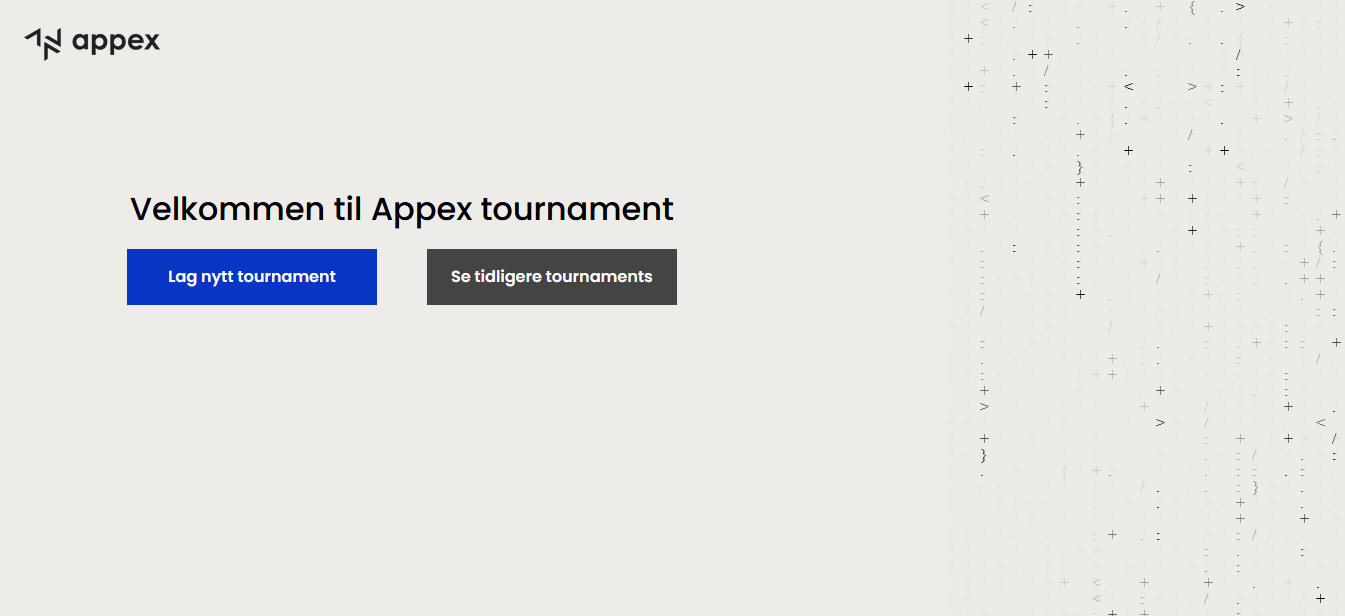
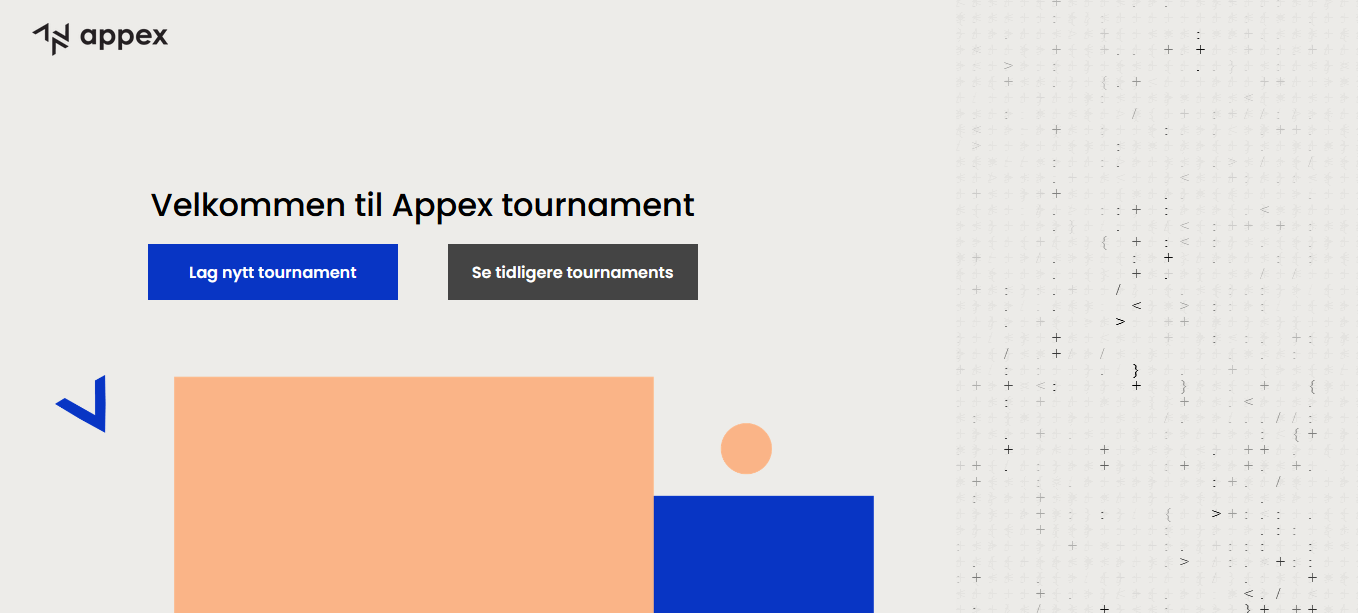
e

diff --git a/frontend/pages/newtournament.vue b/frontend/pages/newtournament.vue
@@ -4,15 +4,14 @@
       <div class="pg2-content-container">
         <div class="inputBox">
           <h1>Skriv inn navnet på tournamentet</h1>
-          <input v-model="tournamentName" type="text" id="tname" name="tname" placeholder="Tournament navn" maxlength = "69">
+          <input v-model="tournament.name" type="text" id="tname" name="tname" placeholder="Tournament navn" maxlength = "69">
           <span class="limiter">{{ 69 - tournamentName.length }} characters remaining</span>
         </div>
         <div class="inputBox">
           <h1>Tournament dato</h1>
-          <input type="date" id="tdate" name="tdate" placeholder="Dato">
+          <input v-model="tournament.date" type="date" id="tdate" name="tdate" placeholder="Dato">
         </div>
         <div class="pagebtn">
-          <button class="past" @click="getTournament()"><img src="https://icons-for-free.com/iconfiles/png/512/arrow+left+chevron+chevronleft+left+left+icon+icon-1320185731545502691.png" width="50px"></button>
           <button class="next" @click="increasePage()"><img src="https://icons-for-free.com/iconfiles/png/512/arrow+right+chevron+chevronright+right+right+icon+icon-1320185732203239715.png" width="50px"/></button>
         </div>
       </div>
@@ -62,7 +61,10 @@ export default {
    data() {
       return {
         page: 0,
-        tournamentName: '',
+        tournament: {
+          name: '',
+          date: ''
+        },
         players: [],
         matches: []
       }
@@ -73,7 +75,8 @@ export default {
           method: 'post',
           url: 'http://localhost:3001/newtournament',
           data: {
-            tournamentname: this.tournamentName,
+            tournamentname: this.tournament.name,
+            tournamentdate: this.tournament.date,
             players: this.players
           }
         }).then(async (response) => {

diff --git a/backend/routes/newtournament.js b/backend/routes/newtournament.js
@@ -1,0 +1,32 @@
+const MongoClient = require('mongodb').MongoClient;
+require('dotenv').config();
+module.exports = () => {
+    const body = req.body;
+    const defaultRounds = [256, 128, 64, 32, 16, 8, 4, 2];
+    const matches = [];
+    let rounds = defaultRounds.filter(p => p <= req.body.players.length)
+    for (let i = 0; i < rounds[0] / 2; i++) {
+      matches.push([])
+      for (let z = 0; z < rounds[i] / 2; z++) {
+        matches[i].push([])
+      }
+    }
+    MongoClient.connect('mongodb+srv://appex:appex@cluster0.ovkm8.mongodb.net/appex?retryWrites=true&w=majority', function(err, db) {
+        if (err) throw err;
+        
+        db.db("appex").collection('tournaments').insertOne({name: req.body.tournamentname, date: req.body.tournamentdate, players: req.body.players})
+        console.log('db created')
+        db.close()
+    });
+  
+    let player = 0;
+    for (let i = 0; i < matches[0].length; i++) {
+      matches[0][i].push(req.body.players[player].name)
+      player++;
+      matches[0][i].push(req.body.players[player].name)
+      player++;
+    }
+  
+    return JSON.stringify(matches)
+}
+    

diff --git a/backend/index.js b/backend/index.js
@@ -37,31 +37,5 @@ app.get("/test", (req, res) => {
 })
 app.post("/newtournament", async (req, res) => {
   console.log(req.body)
-  //const body = req.body;
-  //const defaultRounds = [256, 128, 64, 32, 16, 8, 4, 2];
-  const matches = [];
-  /*let rounds = defaultRounds.filter(p => p <= req.body.players.length)
-  for (let i = 0; i < rounds[0] / 2; i++) {
-    matches.push([])
-    for (let z = 0; z < rounds[i] / 2; z++) {
-      matches[i].push([])
-    }
-  }
-  MongoClient.connect('mongodb+srv://appex:appex@cluster0.ovkm8.mongodb.net/appex?retryWrites=true&w=majority', function(err, db) {
-      if (err) throw err;
-      
-      db.db("appex").collection('tournaments').insertOne({name: req.body.tournamentname, date: Date.now(), players: req.body.players})
-      console.log('db created')
-      db.close()
-  });
-
-  let player = 0;
-  for (let i = 0; i < matches[0].length; i++) {
-    matches[0][i].push(req.body.players[player].name)
-    player++;
-    matches[0][i].push(req.body.players[player].name)
-    player++;
-  }*/
-
-  res.end(matches)
+  
 });

diff --git a/frontend/pages/index.vue b/frontend/pages/index.vue
@@ -105,10 +105,11 @@ body {
   justify-content: center;
   align-items: center;
   //background-color: $backclr;
-  background-image: url("../static/images/frontpage-grapics.jpg");
-  background-position: center;
+  background-image: url("../static/images/frontpage-grapics.png");
+  background-position: 10% 100%;
   background-repeat: no-repeat;
-  background-size: cover;
+  background-size:60%;
+  padding: 2rem;
   z-index: -1;  
   
   h1{
@@ -116,13 +117,6 @@ body {
     font-weight: 500;
     font-size: 32px;
     margin: 0;
-  }
-  &::before {
-    content: '';
-    position: absolute;
-    top: 0;
-    left: 0;
-    
   }
 }
 .txt-btn-pg1{
